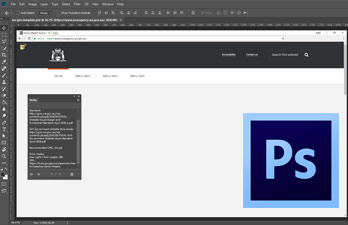
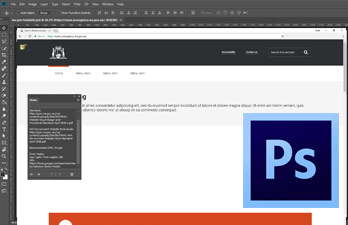
Small updates
Link to Photoshop template added

diff --git a/index.html b/index.html
@@ -4,6 +4,7 @@
     <!-- Required meta tags -->
     <meta charset="utf-8">
     <meta name="viewport" content="width=device-width, initial-scale=1, shrink-to-fit=no">
+	<title>DBCA PICA - WA Government Templates and Files</title>
 	
     <link rel="shortcut icon" href="favicon.ico" type="image/vnd.microsoft.icon" />
 	
@@ -13,7 +14,7 @@
 	<link rel="stylesheet" href="css/base.css">
 	<link rel="stylesheet" href="css/styles.css">
 	
-    <title>DBCA PICA - WA Government Templates and Files</title>
+    
   </head>
   <body>
 	<header>
@@ -70,7 +71,7 @@
                   <p class="card-text">This photoshop template is designed to be used as a base for rapid design process. It contains elements and colros required.</p>
                   <div class="d-flex justify-content-between align-items-center">
                     <div class="btn-group">
-                      <button type="button" class="btn btn-sm btn-outline-secondary">Coming soon...</button>
+                      <a href="https://drive.google.com/drive/folders/1cz8FOKhN0ZTAovh_ZHPmR4VxJb6c0n4x?usp=sharing" class="btn btn-danger my-2"><i class="fas fa-file-pdf"></i> WA Government Website Style Standard</a>
                     </div>
                     <span class="badge badge-primary">Photoshop</span>
                   </div>
